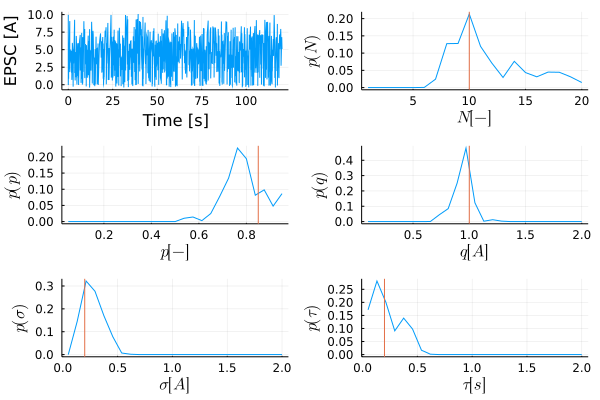
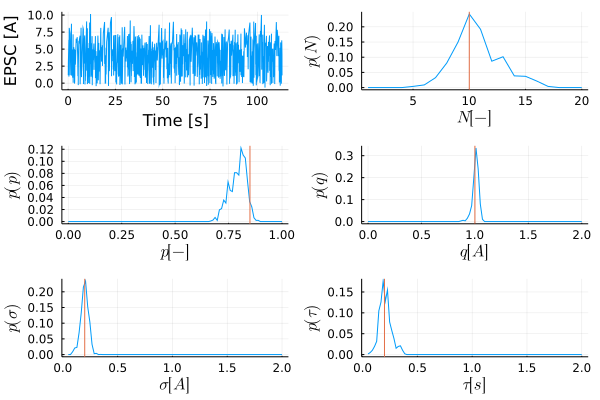
better hyperparameters and figure

diff --git a/README.md b/README.md
@@ -18,14 +18,14 @@ User API is work in progress. This is a minimal working example for running the 
 using BinomialSynapses
 
 sim = NestedFilterSimulation(
-        10, 0.85, 1.0, 0.2, 0.2,  # ground truth parameters
-        1:20,                     # parameter ranges for filter
-        LinRange(0.05, 0.95, 25), # .
-        LinRange(0.10, 2.00, 25), # .
-        LinRange(0.05, 2.00, 25), # .
-        LinRange(0.05, 2.00, 25), # .
-        2048, 256,                # outer and inner number of particles
-        12                        # jittering kernel width
+        10, 0.85, 1.0, 0.2, 0.2,   # ground truth parameters
+        1:20,                      # parameter ranges for filter
+        LinRange(0.05, 0.95, 100), # .
+        LinRange(0.10, 2.00, 100), # .
+        LinRange(0.05, 2.00, 100), # .
+        LinRange(0.05, 2.00, 100), # .
+        2048, 512,                 # outer and inner number of particles
+        12                         # jittering kernel width
       )
 
 times, epsps = run!(sim, T = 1000)
